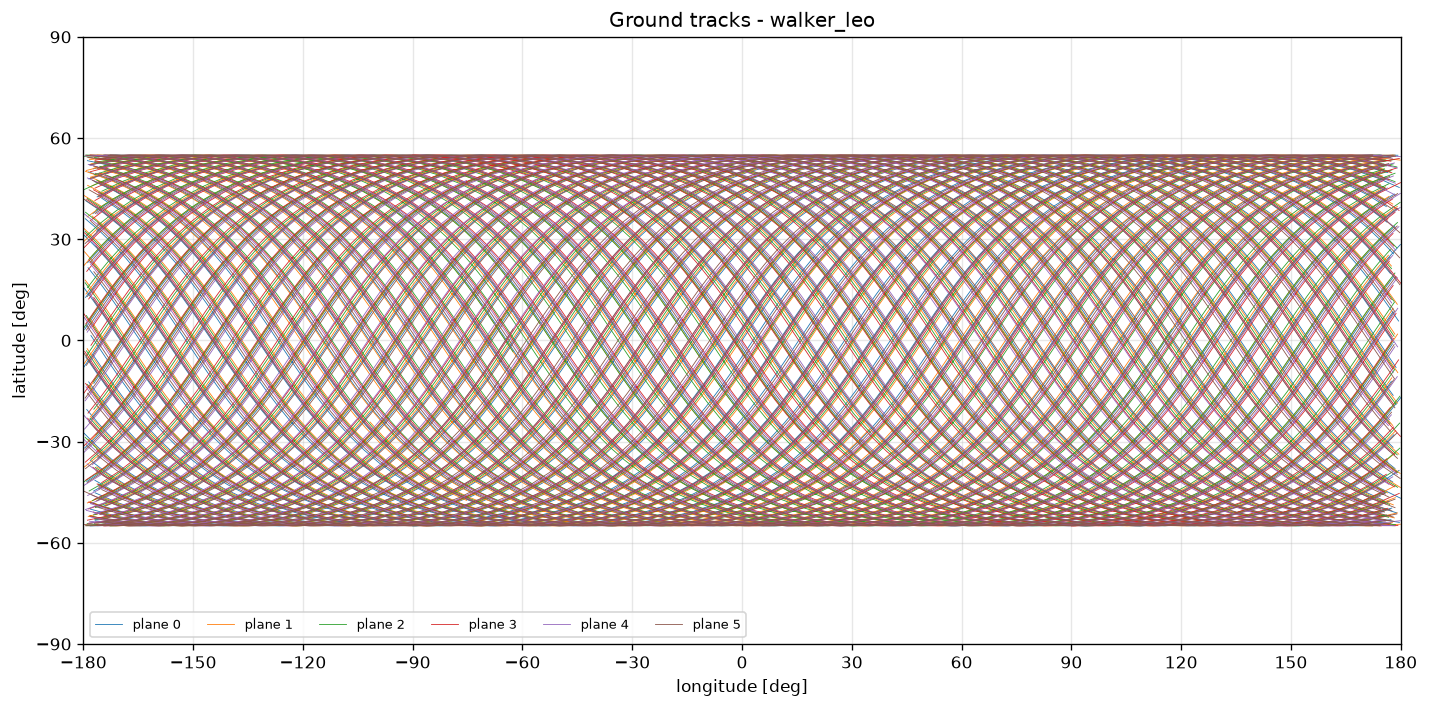
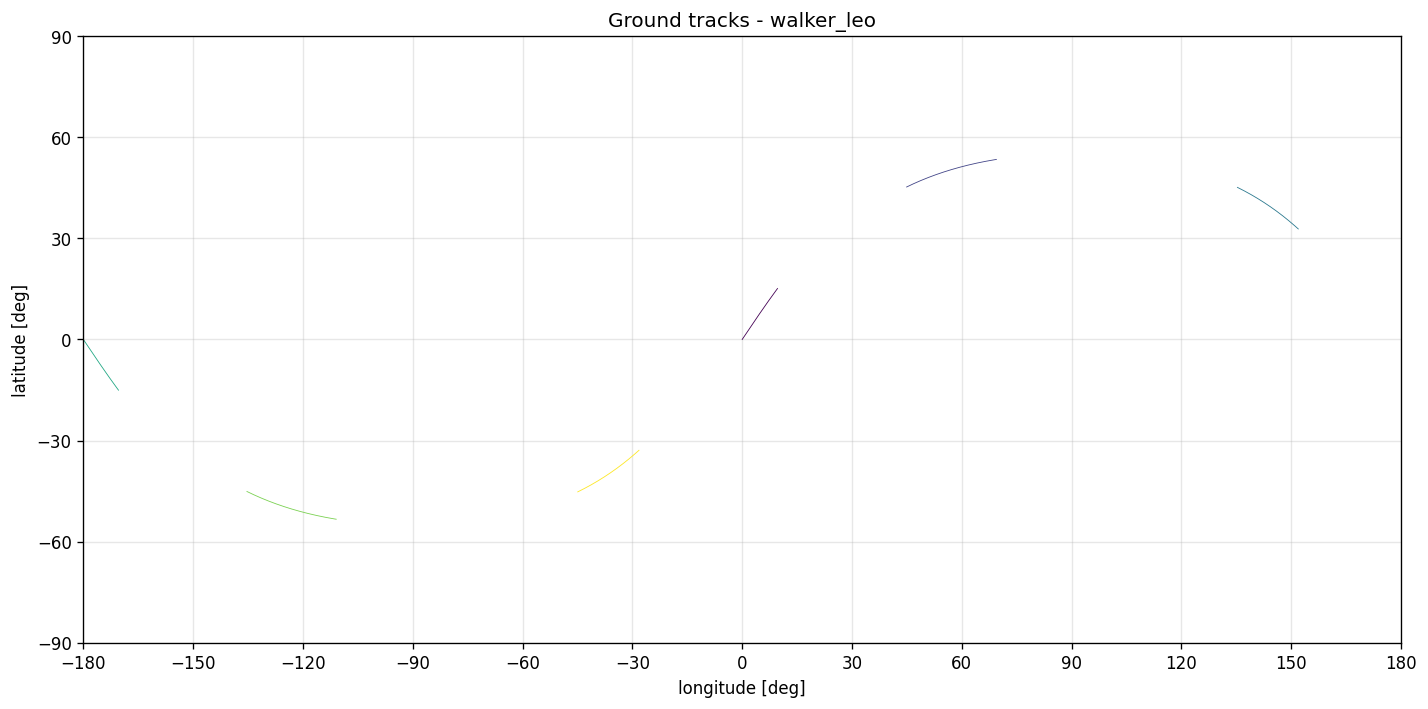
plot

diff --git a/plots.py b/plots.py
@@ -74,8 +74,8 @@ def _savefig(fig, name, panel):
 # Panels
 # ---------------------------------------------------------------------------
 
-def plot_trajectories_3d(times, states, sats, name=""):
-    """3D ECI trajectories around an Earth sphere, colored by Walker plane."""
+def plot_trajectories_3d(times, states, sats, name="", plot_endpoints=False):
+    """3D ECI trajectories; optionally mark starts with Xs and ends with dots."""
     colors, planes, n_planes = _plane_colors(sats)
 
     fig = plt.figure(figsize=(9, 8))
@@ -90,13 +90,20 @@ def plot_trajectories_3d(times, states, sats, name=""):
             label = f"plane {planes[i]}"
             labeled_planes.add(planes[i])
         ax.plot(r[0], r[1], r[2], color=colors[i], linewidth=0.8, label=label)
+        if plot_endpoints:
+            ax.scatter(r[0, 0], r[1, 0], r[2, 0], color=colors[i],
+                       marker="x", s=45, linewidths=1.5, depthshade=False,
+                       label="starting position" if i == 0 else None)
+            ax.scatter(r[0, -1], r[1, -1], r[2, -1], color=colors[i],
+                       s=35, edgecolors="black", linewidths=0.5, depthshade=False,
+                       label="final position" if i == 0 else None)
 
     ax.set_xlabel("x [km]")
     ax.set_ylabel("y [km]")
     ax.set_zlabel("z [km]")
     ax.set_title(f"ECI trajectories ({len(sats)} sats, {times[-1] / 3600:.1f} h){' - ' + name if name else ''}")
     set_axes_equal(ax)
-    if labeled_planes:
+    if labeled_planes or (plot_endpoints and len(sats)):
         ax.legend(loc="upper right", fontsize=8)
     fig.tight_layout()
     _savefig(fig, name, "trajectories")
@@ -208,9 +215,9 @@ def plot_ground_tracks(times, states, sats, name=""):
 # Dispatcher
 # ---------------------------------------------------------------------------
 
-def summary(times, states, sats, name="", show=True):
-    """Run every panel, save PNGs under scenarios/plots/<name>/, optionally show."""
-    plot_trajectories_3d(times, states, sats, name)
+def summary(times, states, sats, name="", show=True, plot_endpoints=False):
+    """Save/show all panels; plot_endpoints enables 3D start and final markers."""
+    plot_trajectories_3d(times, states, sats, name, plot_endpoints=plot_endpoints)
     plot_elements(times, states, sats, name)
     plot_altitude(times, states, sats, name)
     plot_ground_tracks(times, states, sats, name)

diff --git a/scenarios/phased_array.py b/scenarios/phased_array.py
@@ -1,0 +1,30 @@
+"""Bunch of sats in one orbit"""
+
+import numpy as np
+
+from sim import Simulator, walker, Satellite
+from constants import DAY_TO_SEC, MIN_TO_SEC
+from plots import summary
+
+NAME = "walker_leo"
+
+
+def run():
+    phases = [0, 60, 120, 180, 240, 300]
+    sats = [Satellite.from_elements(
+        elements=(7000.0, 0.001, np.deg2rad(55.0), 0.0, 0.0, np.deg2rad(phase)),
+        mass=100.0, area=1.0, cd=2.2,
+    ) for phase in phases]
+
+    t_span = 5 * MIN_TO_SEC
+
+    sim = Simulator(sats, perturbations=("J2", "drag"))
+    times, states = sim.propagate(
+        (0.0, t_span),
+        t_eval=np.linspace(0.0, t_span, 1000),
+    )
+    summary(times, states, sats, name=NAME, plot_endpoints=True)
+
+
+if __name__ == "__main__":
+    run()
